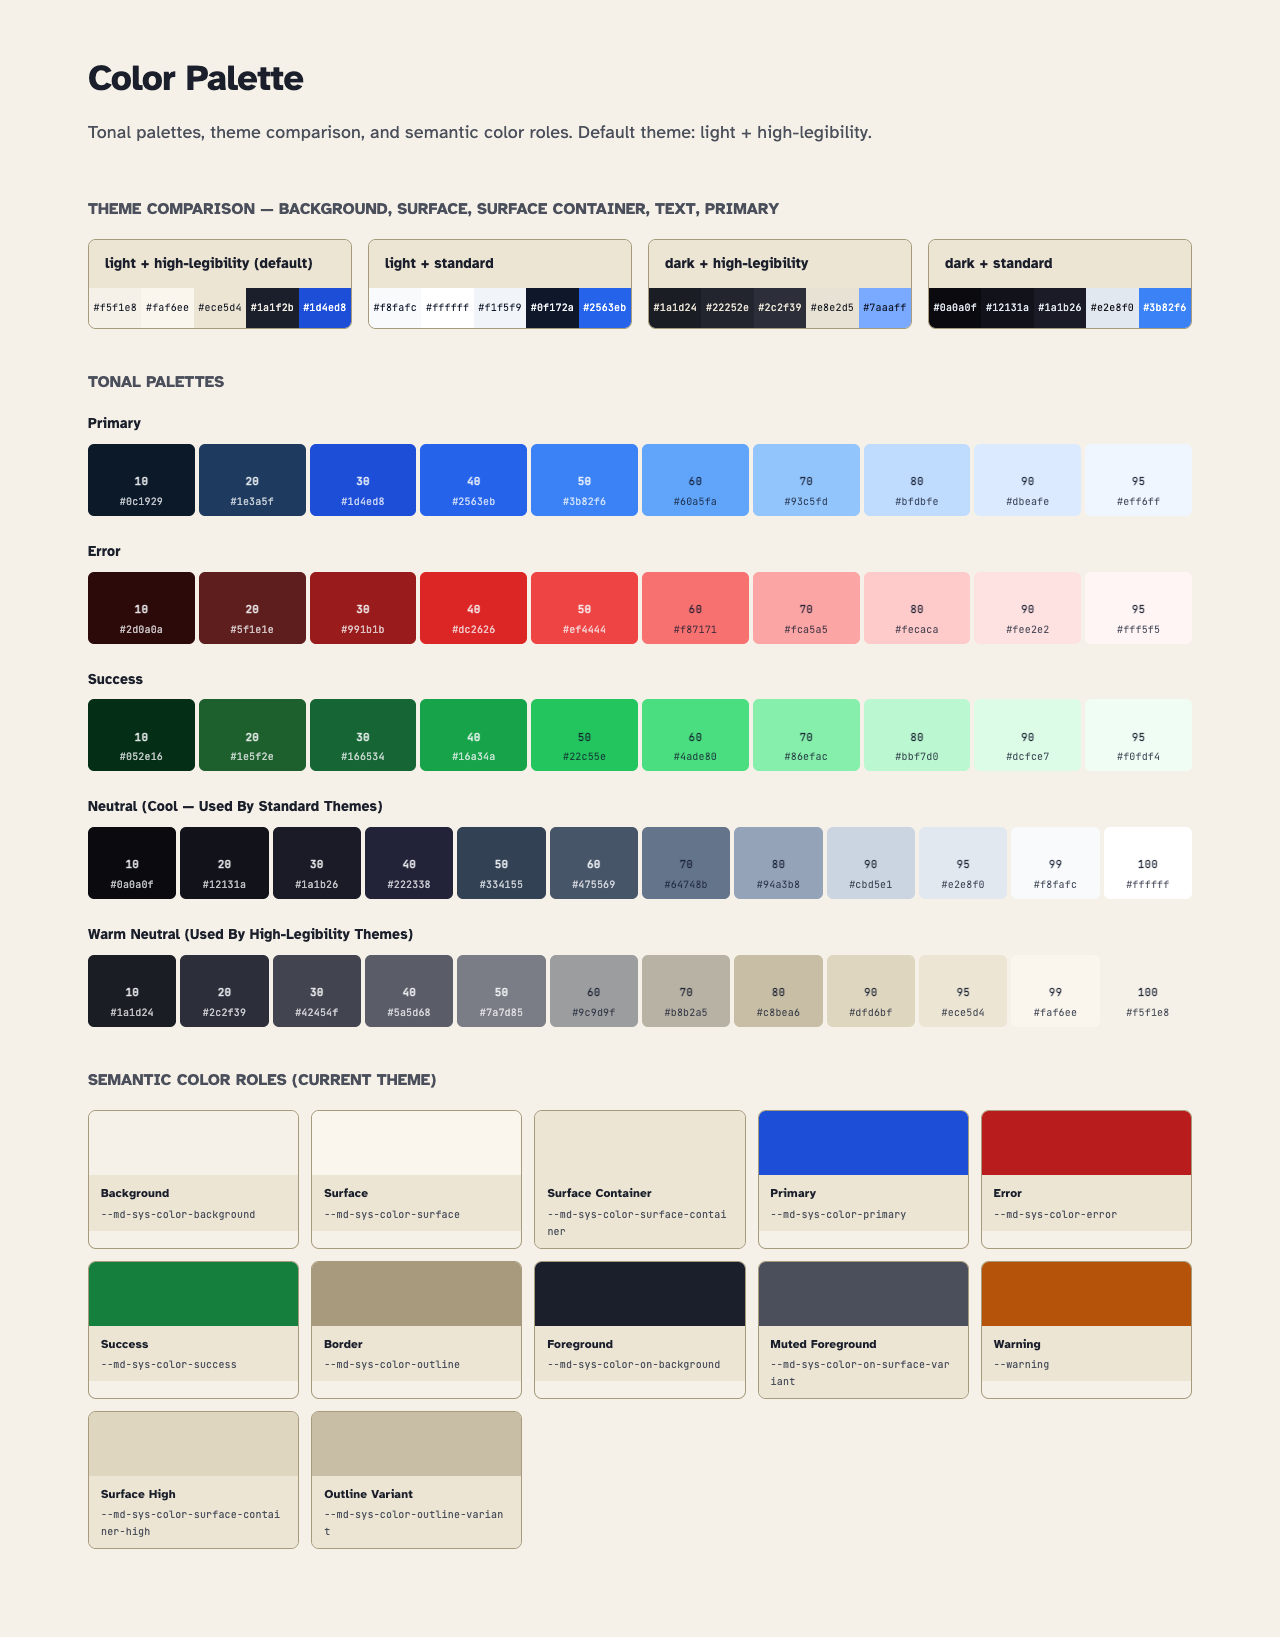
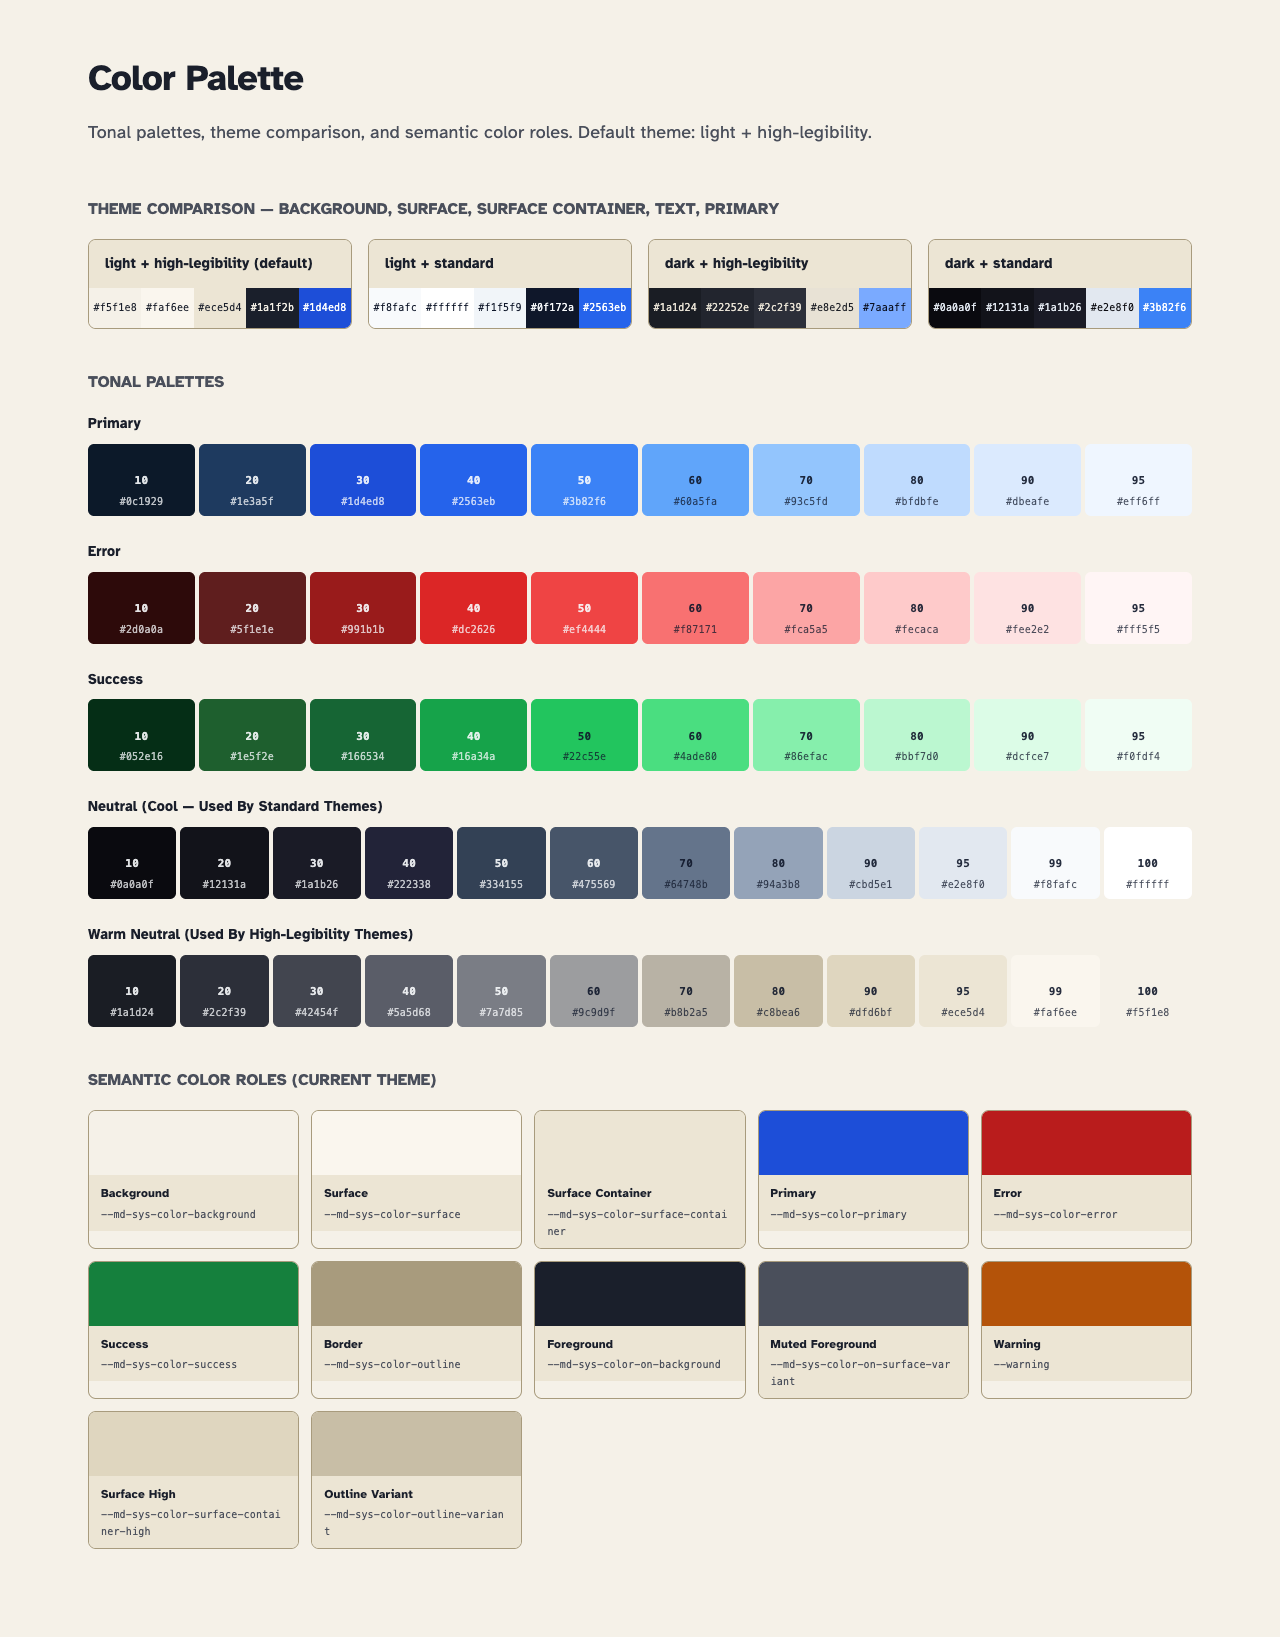
Self-host Atkinson Hyperlegible — drop Google Fonts CDN dependency
The showcase + palette previously loaded Atkinson Hyperlegible via a
Google Fonts <link>, so any environment without internet (sandboxed
CI, offline review) silently fell back to Inter. Both pages now load
the font via local @font-face from docs/fonts/, making them fully
self-contained.

- Add docs/fonts/AtkinsonHyperlegible-{Regular,Bold}.woff2 (47 KB total,
  fetched from googlefonts/atkinson-hyperlegible on GitHub)
- Replace Google Fonts <link> with @font-face declarations in both
  showcase.html and palette.html
- Regenerate color-palette.png to match (subpixel reflow from preconnect
  removal — the 5 component-showcase PNGs are byte-identical to the
  prior commit, confirming Atkinson was already loading via CDN there)

Verified via getComputedStyle: h1 resolves to "Atkinson Hyperlegible"
with both 400 and 700 weights status="loaded". Tests still pass.

Changed region(s): [[0.875, 0.5919, 0.9062, 0.6231], [0.875, 0.2804, 0.9062, 0.3115]]

diff --git a/docs/palette.html b/docs/palette.html
@@ -5,10 +5,22 @@
   <meta name="viewport" content="width=device-width, initial-scale=1.0">
   <title>Design System — Color Palette</title>
   <link rel="stylesheet" href="../platforms/css/tokens.css">
-  <link rel="preconnect" href="https://fonts.googleapis.com">
-  <link rel="preconnect" href="https://fonts.gstatic.com" crossorigin>
-  <link href="https://fonts.googleapis.com/css2?family=Atkinson+Hyperlegible:wght@400;700&family=Inter:wght@400;500;600;700&family=JetBrains+Mono:wght@400;500&display=swap" rel="stylesheet">
   <style>
+    @font-face {
+      font-family: "Atkinson Hyperlegible";
+      font-style: normal;
+      font-weight: 400;
+      font-display: swap;
+      src: url("./fonts/AtkinsonHyperlegible-Regular.woff2") format("woff2");
+    }
+    @font-face {
+      font-family: "Atkinson Hyperlegible";
+      font-style: normal;
+      font-weight: 700;
+      font-display: swap;
+      src: url("./fonts/AtkinsonHyperlegible-Bold.woff2") format("woff2");
+    }
+
     *, *::before, *::after { box-sizing: border-box; margin: 0; padding: 0; }
 
     body {

diff --git a/docs/showcase.html b/docs/showcase.html
@@ -5,10 +5,22 @@
   <meta name="viewport" content="width=device-width, initial-scale=1.0">
   <title>Design System — Component Showcase</title>
   <link rel="stylesheet" href="../platforms/css/tokens.css">
-  <link rel="preconnect" href="https://fonts.googleapis.com">
-  <link rel="preconnect" href="https://fonts.gstatic.com" crossorigin>
-  <link href="https://fonts.googleapis.com/css2?family=Atkinson+Hyperlegible:wght@400;700&family=Inter:wght@400;500;600;700&display=swap" rel="stylesheet">
   <style>
+    @font-face {
+      font-family: "Atkinson Hyperlegible";
+      font-style: normal;
+      font-weight: 400;
+      font-display: swap;
+      src: url("./fonts/AtkinsonHyperlegible-Regular.woff2") format("woff2");
+    }
+    @font-face {
+      font-family: "Atkinson Hyperlegible";
+      font-style: normal;
+      font-weight: 700;
+      font-display: swap;
+      src: url("./fonts/AtkinsonHyperlegible-Bold.woff2") format("woff2");
+    }
+
     *, *::before, *::after { box-sizing: border-box; margin: 0; padding: 0; }
 
     html, body { min-height: 100%; }
